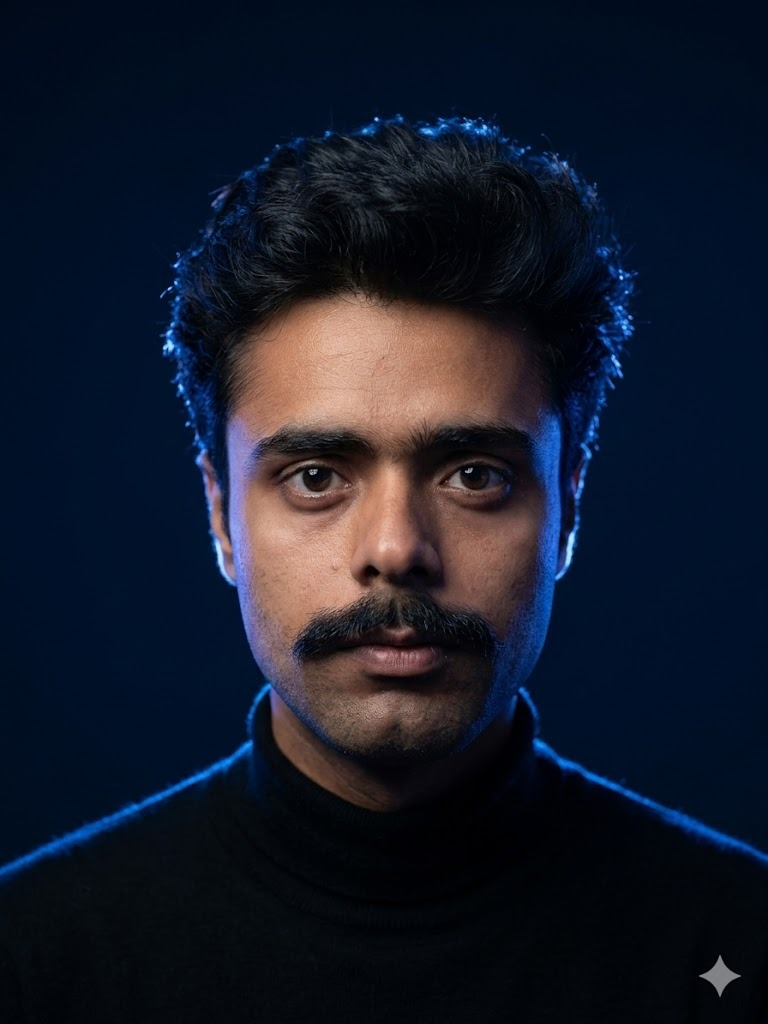
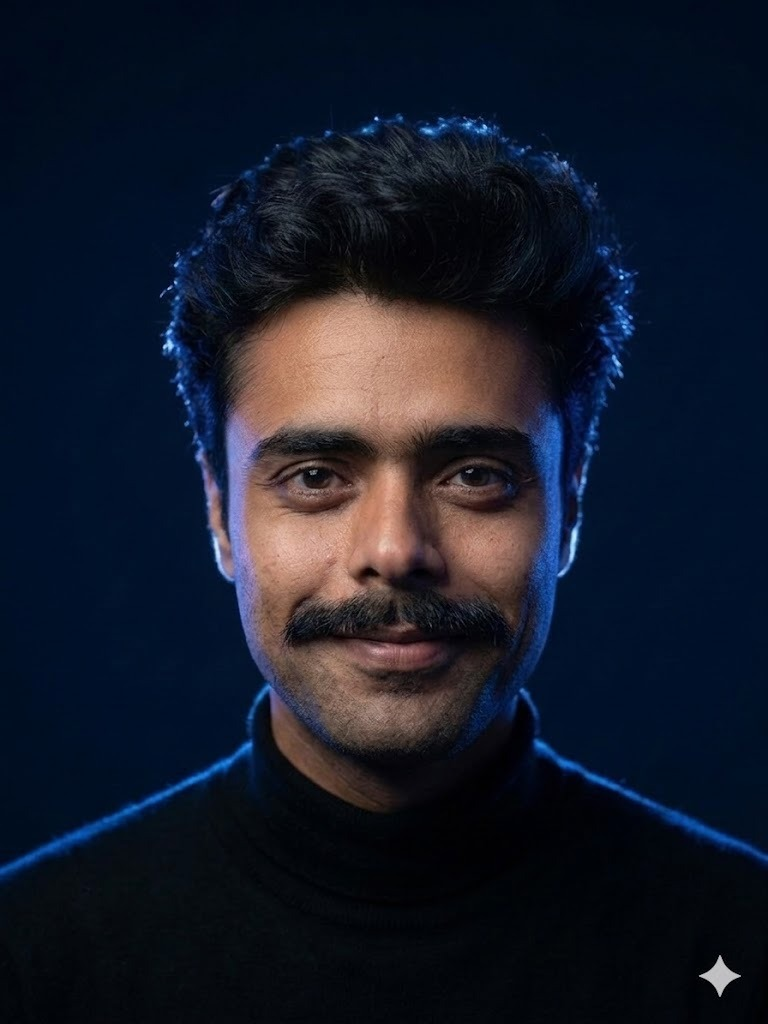
fix teams cards

diff --git a/components/sections/team/team-card.tsx b/components/sections/team/team-card.tsx
@@ -32,6 +32,7 @@ function GithubIcon(props: IconProps) {
 
 export type TeamMember = {
   name: string;
+  role: string;
   image: string;
   socials: { x?: string; linkedin?: string; github?: string };
 };
@@ -48,6 +49,7 @@ const SOCIALS = [
  */
 export function TeamCard({
   name,
+  role,
   image,
   socials,
   index = 0,
@@ -59,7 +61,11 @@ export function TeamCard({
       initial={reduceMotion ? false : { opacity: 0, y: 16 }}
       whileInView={{ opacity: 1, y: 0 }}
       viewport={{ once: true, margin: "-40px" }}
-      transition={{ duration: 0.5, ease: [0.165, 0.84, 0.44, 1], delay: index * 0.08 }}
+      transition={{
+        duration: 0.5,
+        ease: [0.165, 0.84, 0.44, 1],
+        delay: index * 0.08,
+      }}
       className="group relative aspect-[3/4] overflow-hidden rounded-2xl border bg-card"
     >
       <Image
@@ -74,9 +80,12 @@ export function TeamCard({
         aria-hidden
         className="absolute inset-0 bg-gradient-to-t from-black/85 via-black/20 to-transparent"
       />
-      <div className="absolute inset-x-0 bottom-0 flex flex-col gap-2 p-4">
-        <h3 className="font-heading text-lg font-medium text-white">{name}</h3>
-        <div className="flex items-center gap-2.5">
+      <div className="absolute inset-x-0 bottom-0 flex flex-col gap-3 p-5">
+        <div className="flex flex-col gap-0.5">
+          <h3 className="font-heading text-2xl font-medium text-white sm:text-3xl">{name}</h3>
+          <p className="text-sm text-white/55">{role}</p>
+        </div>
+        <div className="flex items-center gap-3.5">
           {SOCIALS.map(({ key, label, Icon }) => {
             const href = socials[key];
             if (!href) return null;
@@ -87,9 +96,9 @@ export function TeamCard({
                 target="_blank"
                 rel="noopener noreferrer"
                 aria-label={`${name} on ${label}`}
-                className="text-white/60 transition-colors hover:text-white"
+                className="text-white/70 transition-colors hover:text-white"
               >
-                <Icon className="size-4" />
+                <Icon className="size-5" />
               </a>
             );
           })}

diff --git a/components/sections/team/index.tsx b/components/sections/team/index.tsx
@@ -4,18 +4,21 @@ import { TeamCard, type TeamMember } from "./team-card";
 
 const TEAM: TeamMember[] = [
   {
-    name: "Barun",
-    image: "/teams/barun.jpeg",
-    socials: { x: "#", linkedin: "#", github: "#" },
-  },
-  {
-    name: "Disha",
+    name: "Disha Kemble",
+    role: "Ready to turn ideas into reality.",
     image: "/teams/disha.jpeg",
     socials: { x: "#", linkedin: "#", github: "#" },
   },
   {
-    name: "Sagar",
+    name: "Sagar Kemble",
+    role: "Ready to create and colaborate",
     image: "/teams/sagar.jpeg",
+    socials: { x: "#", linkedin: "#", github: "#" },
+  },
+  {
+    name: "Barun Tiwary",
+    role: "Turning ideas into impactful solutions.",
+    image: "/teams/barun.jpeg",
     socials: { x: "#", linkedin: "#", github: "#" },
   },
 ];